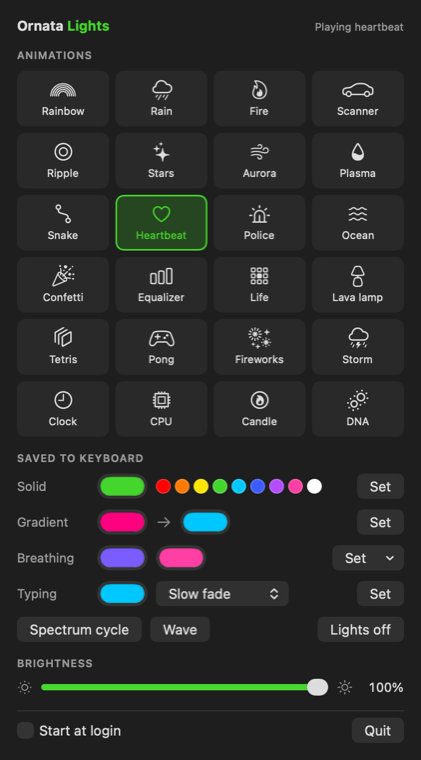
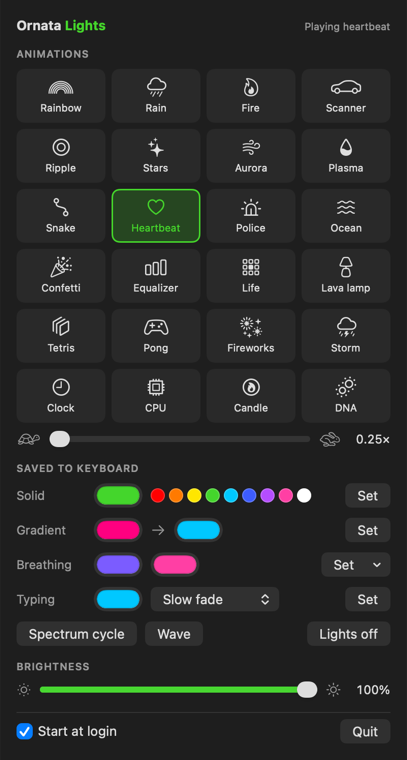
Speed control for animations and the wave
A ¼×–4× slider under the animations. Each effect remembers its own speed.
Faster runs several effect steps per frame; slower blends between two
steps, so slow motion stays smooth and no effect needs changing. The
built-in wave maps speed onto its delay byte.

diff --git a/Sources/Lights.swift b/Sources/Lights.swift
@@ -52,11 +52,17 @@ final class Lights: ObservableObject {
     @Published var brightness: Double {
         didSet { UserDefaults.standard.set(brightness, forKey: "brightness") }
     }
+    /// Speed of the current animation (or the wave), 1 = normal. Each effect keeps its own.
+    @Published private(set) var speed = 1.0
+
+    static let speedRange = 0.25...4.0
 
     private let usb = DispatchQueue(label: "ornata.usb")
     private var animation: Thread?
     private var animationCancelled = false
+    private var animationSpeed = 1.0
     private let animationLock = NSLock()
+    private var speeds = UserDefaults.standard.dictionary(forKey: "speeds") as? [String: Double] ?? [:]
 
     init() {
         brightness = UserDefaults.standard.object(forKey: "brightness") as? Double ?? 100
@@ -71,13 +77,43 @@ final class Lights: ObservableObject {
         return nil
     }
 
+    /// What the speed control applies to right now, if anything.
+    private var speedKey: String? {
+        switch mode {
+        case .animation(let id): return id
+        case .wave: return "wave"
+        default: return nil
+        }
+    }
+
+    var canChangeSpeed: Bool { speedKey != nil }
+
+    func setSpeed(_ value: Double) {
+        guard let key = speedKey else { return }
+        let value = min(Self.speedRange.upperBound, max(Self.speedRange.lowerBound, value))
+        speed = value
+        speeds[key] = value
+        UserDefaults.standard.set(speeds, forKey: "speeds")
+        if case .wave = mode {
+            send(Razer.wave(leftward: false, speed: value))
+        } else {
+            animationLock.lock()
+            animationSpeed = value
+            animationLock.unlock()
+        }
+    }
+
     func apply(_ newMode: Mode) {
         stopAnimation()
         mode = newMode
         if let data = try? JSONEncoder().encode(newMode) { UserDefaults.standard.set(data, forKey: "mode") }
-        if case .animation(let id) = newMode, let info = Effects.info(id) {
-            startAnimation(info.make())
-        } else {
+        speed = speedKey.flatMap { speeds[$0] } ?? 1
+        switch newMode {
+        case .animation(let id):
+            if let info = Effects.info(id) { startAnimation(info.make()) }
+        case .wave:
+            send(Razer.wave(leftward: false, speed: speed))
+        default:
             send(newMode.packets)
         }
     }
@@ -120,18 +156,45 @@ final class Lights: ObservableObject {
         return true
     }
 
+    /// Mixes two frames; t = 0 gives `a`, t = 1 gives `b`.
+    private static func blend(_ a: Grid, _ b: Grid, _ t: Double) -> Grid {
+        if t <= 0 { return a }
+        return zip(a, b).map { rowA, rowB in
+            zip(rowA, rowB).map { x, y in
+                RGB(Double(x.r) + (Double(y.r) - Double(x.r)) * t,
+                    Double(x.g) + (Double(y.g) - Double(x.g)) * t,
+                    Double(x.b) + (Double(y.b) - Double(x.b)) * t)
+            }
+        }
+    }
+
     private func startAnimation(_ effect: Effect) {
         animationLock.lock()
         animationCancelled = false
+        animationSpeed = speed
         animationLock.unlock()
         let thread = Thread { [weak self] in
             var failures = 0
+            // Speed works on any effect without changing it: each sent frame moves the effect
+            // forward by `speed` steps. Faster runs several steps per frame; slower shows
+            // blends between two steps, so slow motion stays smooth.
+            var current = effect.next()
+            var upcoming = effect.next()
+            var progress = 0.0
             while let self {
                 self.animationLock.lock()
                 let cancelled = self.animationCancelled
+                let speed = self.animationSpeed
                 self.animationLock.unlock()
                 if cancelled { break }
-                let ok = self.usb.sync { Self.write(Razer.frame(effect.next())) }
+                progress += speed
+                while progress >= 1 {
+                    current = upcoming
+                    upcoming = effect.next()
+                    progress -= 1
+                }
+                let frame = Self.blend(current, upcoming, progress)
+                let ok = self.usb.sync { Self.write(Razer.frame(frame)) }
                 if ok {
                     if failures > 0 { DispatchQueue.main.async { self.connected = true } }
                     failures = 0

diff --git a/Sources/ControlPanel.swift b/Sources/ControlPanel.swift
@@ -22,7 +22,10 @@ struct ControlPanel: View {
     var body: some View {
         VStack(alignment: .leading, spacing: 14) {
             header
-            section("Animations") { animationGrid }
+            section("Animations") {
+                animationGrid
+                speedControl
+            }
             section("Saved to keyboard") { savedEffects }
             section("Brightness") { brightness }
             footer
@@ -78,6 +81,32 @@ struct ControlPanel: View {
                 .help(active ? "Click to stop" : info.subtitle.capitalized)
             }
         }
+    }
+
+    /// Logarithmic, so ½× and 2× sit the same distance either side of normal.
+    private var speedControl: some View {
+        HStack {
+            Image(systemName: "tortoise").foregroundStyle(.secondary).help("Slower")
+            Slider(
+                value: Binding(get: { log2(lights.speed) }, set: { lights.setSpeed(pow(2, $0)) }),
+                in: log2(Lights.speedRange.lowerBound)...log2(Lights.speedRange.upperBound)
+            ) {
+                EmptyView()
+            } onEditingChanged: { editing in
+                // Snap back to exactly 1× when released close to it.
+                if !editing, abs(log2(lights.speed)) < 0.12 { lights.setSpeed(1) }
+            }
+            .tint(razerGreen)
+            Image(systemName: "hare").foregroundStyle(.secondary).help("Faster")
+            Text(speedLabel).font(.callout.monospacedDigit()).frame(width: 40, alignment: .trailing)
+        }
+        .disabled(!lights.canChangeSpeed)
+        .opacity(lights.canChangeSpeed ? 1 : 0.45)
+        .help(lights.canChangeSpeed ? "Speed of the current effect" : "Pick an animation (or Wave) to change its speed")
+    }
+
+    private var speedLabel: String {
+        String(format: "%.2g×", lights.speed)  // 0.25×, 0.5×, 1×, 1.5×, 4×
     }
 
     // MARK: Saved effects

diff --git a/Sources/Protocol.swift b/Sources/Protocol.swift
@@ -67,7 +67,11 @@ enum Razer {
     static func breathing(_ c: RGB) -> [[UInt8]] { [effect(0x02, [1, 0, 1, c.r, c.g, c.b])] }
     static func breathing(_ a: RGB, _ b: RGB) -> [[UInt8]] { [effect(0x02, [2, 0, 2, a.r, a.g, a.b, b.r, b.g, b.b])] }
     static func spectrum() -> [[UInt8]] { [effect(0x03, [0, 0, 0])] }
-    static func wave(leftward: Bool) -> [[UInt8]] { [effect(0x04, [leftward ? 2 : 1, 0x28, 0])] }
+    /// The wave's speed byte is a delay: 0x28 is normal, lower is faster.
+    static func wave(leftward: Bool, speed: Double = 1) -> [[UInt8]] {
+        let delay = UInt8(max(0x08, min(0xA0, (40 / speed).rounded())))
+        return [effect(0x04, [leftward ? 2 : 1, delay, 0])]
+    }
     /// Keys light up when pressed and fade; speed 1 (fast fade) ... 4 (slow).
     static func reactive(_ c: RGB, speed: UInt8) -> [[UInt8]] { [effect(0x05, [0, max(1, min(4, speed)), 1, c.r, c.g, c.b])] }
     static func off() -> [[UInt8]] { [effect(0x00, [0, 0, 0])] }

diff --git a/README.md b/README.md
@@ -6,6 +6,7 @@ A small native macOS menu bar app for the lighting on a **Razer Ornata V2** keyb
 
 - 24 live per-key animations: rainbow, rain, fire, aurora, plasma, snake, tetris, pong, fireworks, a clock, a CPU meter and more
 - Effects stored in the keyboard itself: solid colour, gradient, breathing, light-up-as-you-type, spectrum, wave
+- A speed control from ¼× to 4× that each animation (and the wave) remembers separately
 - Brightness, start at login, and it restores the last effect when it starts
 
 ## Build
@@ -27,6 +28,8 @@ Every command is a 90-byte HID feature report (`SET_REPORT`) sent to USB interfa
 macOS won't let an app open a keyboard's HID interfaces, so `OrnataUSB.c` sends the report as a USB control request to the device through IOKit instead. That needs no permissions and no drivers, the same trick as [Razer macOS](https://github.com/1kc/razer-macos).
 
 The keyboard drops packets sent back to back, so there's a 5 ms pause after each one. A per-key frame is 7 packets, so animations run at about 28 fps.
+
+Speed doesn't change that frame rate. Instead each frame moves the effect forward by `speed` steps: above 1× it takes several steps per frame, and below 1× it blends between two consecutive steps, so slow motion stays smooth without each effect knowing about speed (`Lights.startAnimation`).
 
 | File | What it does |
 | --- | --- |
